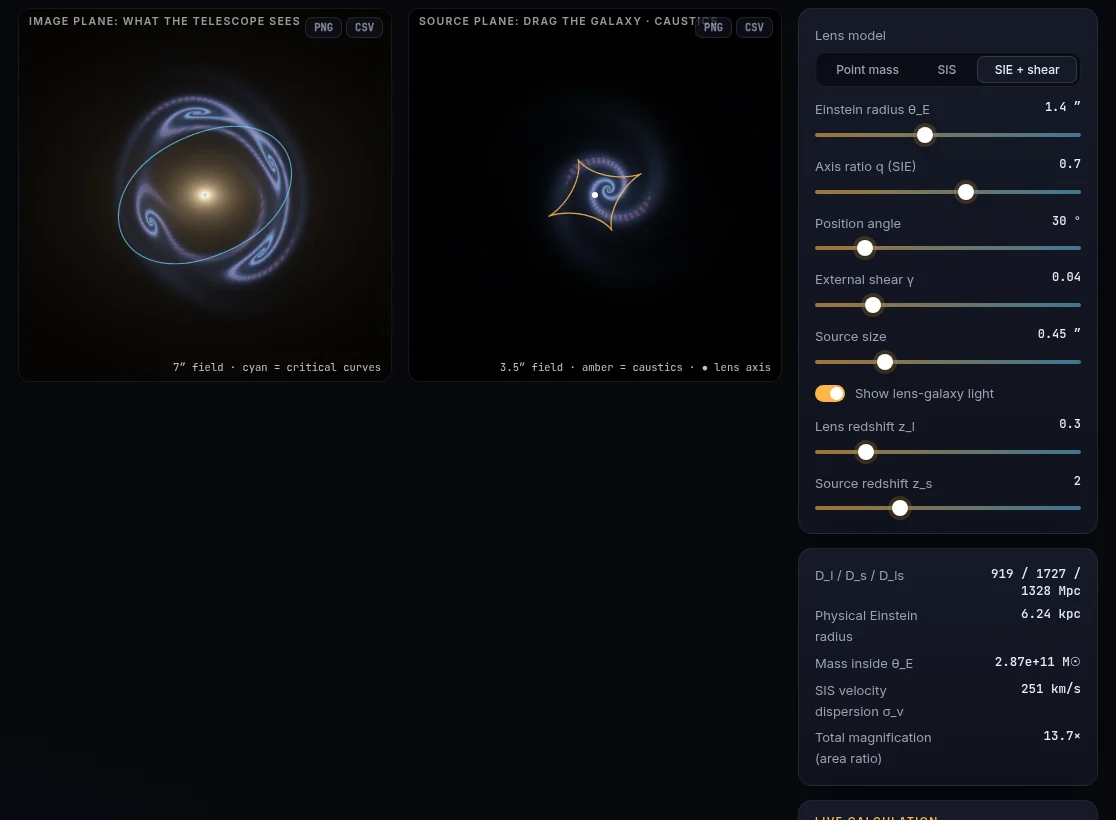
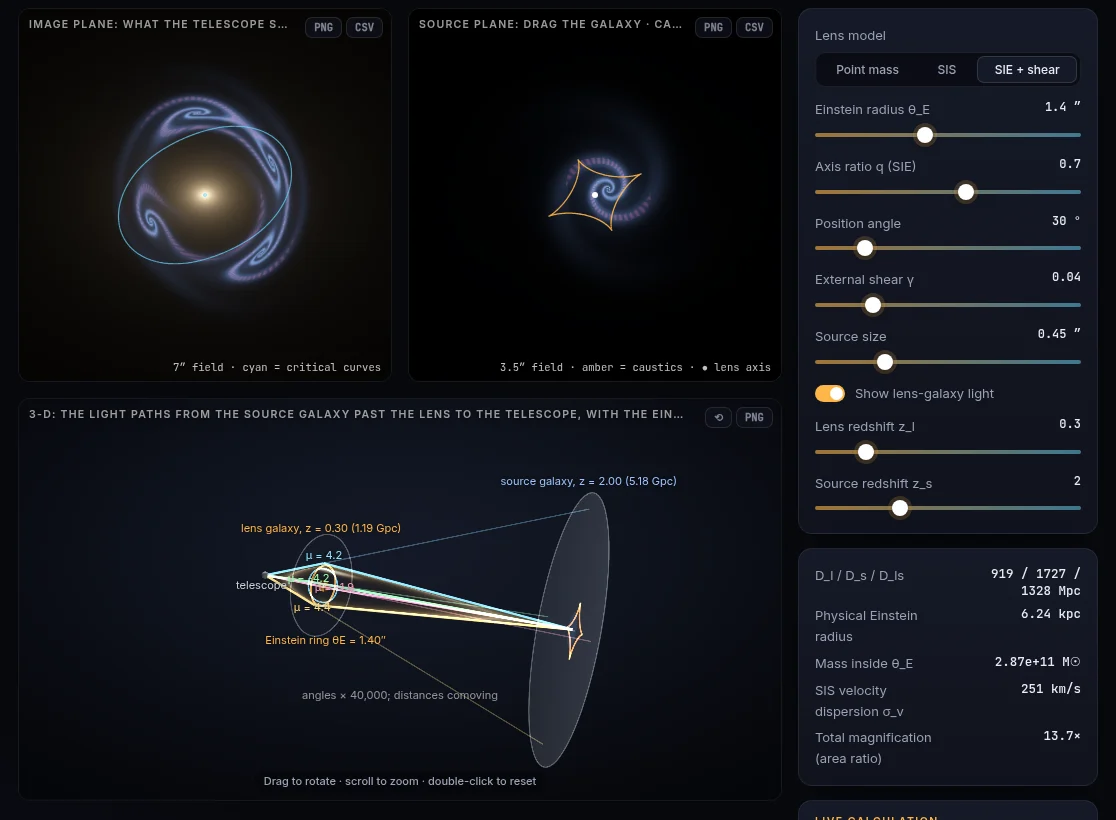
feat(3d): gravitational lensing light paths at comoving distances, with the Einstein ring as a cone (#140)
The lensing laboratory gets a 3-D view: telescope, lens plane (mass ellipse, critical curves), source plane (caustics, source galaxy), the light path of every image with its magnification, and the Einstein ring as a double cone. Planes sit at comoving distances (straight rays, additive in a flat universe); angles are exaggerated x 40 000. images() solves the lens equation (grid search + Newton) in the worker. Tests: SIS and point-mass images against closed forms, the Einstein cross, comoving additivity, and the drawn bend equals the deflection.

diff --git a/js/lib/lensing3d.js b/js/lib/lensing3d.js
@@ -1,0 +1,86 @@
+// 3-D scene for the gravitational-lensing laboratory (shown by js/lib/gl3d.js): the telescope, the
+// lens plane with the lens galaxy and its critical curves, the source plane with the caustics and
+// the background galaxy, the light paths of every image and the Einstein ring as a double cone.
+// Along the line of sight the planes sit at their comoving distances (Gpc): in a flat universe
+// light travels on straight lines in comoving coordinates and comoving distances add up, so the
+// drawing is exact away from the thin lens. Across it, angles are exaggerated by ANGLE_SCALE
+// (arcseconds over gigaparsecs would be invisible). Pure: no DOM.
+import { angularDiameterDistance as DA } from './optics.js';
+import { FOV, SFOV } from './lensing.js';
+import { sphere, normalsFrom } from './mesh3d.js';
+
+export const ANGLE_SCALE = 4e4;
+const ARC = Math.PI / 648000;
+const GOLD = [1, 0.71, 0.28], CYAN = [0.42, 0.84, 1], AMBER = [1, 0.62, 0.28], SRC = [0.55, 0.7, 1];
+const RAYS = [[1, 0.85, 0.45], [0.55, 0.9, 1], [0.6, 1, 0.7], [1, 0.6, 0.75], [0.8, 0.7, 1]];
+
+// Comoving distance (Gpc) to redshift z in flat ΛCDM: (1 + z) D_A.
+export const comoving = (z) => ((1 + z) * DA(0, z)) / 1000;
+
+// Sky angle (arcsec, x right as on the image panel) at comoving distance χ → scene point. The
+// scene looks along +z, so sky x maps to −X for a reader standing at the telescope.
+export const toScene = (x, y, chi) => [-x * ARC * ANGLE_SCALE * chi, y * ARC * ANGLE_SCALE * chi, chi];
+
+function disc(c, r, n = 64) {
+  const P = [c];
+  for (let k = 0; k < n; k++) { const a = (k / n) * 2 * Math.PI; P.push([c[0] + r * Math.cos(a), c[1] + r * Math.sin(a), c[2]]); }
+  const idx = [];
+  for (let k = 1; k <= n; k++) idx.push(0, k === n ? 1 : k + 1, k);
+  const positions = new Float32Array(P.flat()), indices = new Uint32Array(idx);
+  return { positions, normals: new Float32Array(P.flatMap(() => [0, 0, -1])), indices };
+}
+// A cone from apex a to the circle `ring` (points), as triangles.
+function cone(a, ring) {
+  const positions = new Float32Array([a, ...ring].flat()), idx = [];
+  for (let k = 1; k <= ring.length; k++) idx.push(0, k, k === ring.length ? 1 : k + 1);
+  const indices = new Uint32Array(idx);
+  return { positions, normals: normalsFrom(positions, indices), indices };
+}
+const circle = (r, chi, n = 96) => Array.from({ length: n }, (_, k) => [r * Math.cos((k / n) * 2 * Math.PI), r * Math.sin((k / n) * 2 * Math.PI), chi]);
+
+// m = { P (lens model, arcsec), zl, zs, src: [x, y] (arcsec), R (source radius, arcsec),
+//       images: [{ x, y, mu }], crit, caus: [[[x, y], [x, y]], …] (arcsec) }
+export function lensingScene({ P, zl, zs, src, R, images = [], crit = [], caus = [] }) {
+  const meshes = [], lines = [], labels = [];
+  const cl = comoving(zl), cs = comoving(Math.max(zs, zl + 0.01)), g = (x) => x.toFixed(2) + ' Gpc';
+  const k = ARC * ANGLE_SCALE;
+  // the telescope and the line of sight
+  meshes.push({ mesh: sphere(cs * 0.012, [0, 0, 0], 16, 8), color: [0.85, 0.87, 0.92] });
+  labels.push({ p: [0, -cs * 0.04, -cs * 0.02], text: 'telescope', color: '#c9cfdc' });
+  lines.push({ points: [[0, 0, 0], [0, 0, cs]], color: [1, 1, 1, 0.18], width: 1, glow: false });
+  // lens plane: the field of the image panel, the lens galaxy (its mass ellipse) and the critical curves
+  const rl = k * cl * FOV / 2;
+  meshes.push({ mesh: disc([0, 0, cl], rl), color: [0.3, 0.34, 0.45], opacity: 0.12, glass: true });
+  lines.push({ points: [...circle(rl, cl), circle(rl, cl)[0]], color: [1, 1, 1, 0.25], width: 1, glow: false });
+  const gal = sphere(1, [0, 0, 0], 32, 16), q = P.model === 'sie' ? P.q : 1, a0 = 0.55 * k * cl, c = Math.cos(P.pa || 0), s = Math.sin(P.pa || 0);
+  for (let i = 0; i < gal.positions.length; i += 3) {
+    const u = gal.positions[i] * a0, v = gal.positions[i + 1] * a0 * q, x = c * u - s * v, y = s * u + c * v;
+    gal.positions[i] = -x; gal.positions[i + 1] = y; gal.positions[i + 2] = cl + gal.positions[i + 2] * a0 * 0.6;
+  }
+  meshes.push({ mesh: gal, color: GOLD, opacity: 0.85 });
+  labels.push({ p: [0, rl * 1.12, cl], text: `lens galaxy, z = ${zl.toFixed(2)} (${g(cl)})`, color: '#ffb547' });
+  for (const [a, b] of crit) lines.push({ points: [toScene(...a, cl), toScene(...b, cl)], color: [...CYAN, 0.8], width: 1.2, glow: false });
+  // source plane: the source panel's field, the caustics and the background galaxy
+  const rs = k * cs * SFOV / 2;
+  meshes.push({ mesh: disc([0, 0, cs], rs), color: [0.3, 0.34, 0.45], opacity: 0.12, glass: true });
+  lines.push({ points: [...circle(rs, cs), circle(rs, cs)[0]], color: [1, 1, 1, 0.25], width: 1, glow: false });
+  for (const [a, b] of caus) if (Math.hypot(a[0] - b[0], a[1] - b[1]) <= 0.3) lines.push({ points: [toScene(...a, cs), toScene(...b, cs)], color: [...AMBER, 0.85], width: 1.2, glow: false });
+  meshes.push({ mesh: disc(toScene(src[0], src[1], cs * 0.999), k * cs * R * 0.5), color: SRC, opacity: 0.85 });
+  labels.push({ p: [0, rs * 1.08, cs], text: `source galaxy, z = ${zs.toFixed(2)} (${g(cs)})`, color: '#9cc3ff' });
+  // the Einstein ring: the cone of directions θ_E from the telescope, closing on the axis behind the lens
+  const ring = circle(k * cl * P.b, cl, 72);
+  meshes.push({ mesh: cone([0, 0, 0], ring), color: GOLD, opacity: 0.08, glass: true });
+  meshes.push({ mesh: cone([0, 0, cs], ring), color: GOLD, opacity: 0.06, glass: true });
+  lines.push({ points: [...ring, ring[0]], color: [...GOLD, 0.8], width: 1.4 });
+  labels.push({ p: [0, -rl * 1.15, cl], text: `Einstein ring θE = ${P.b.toFixed(2)}″`, color: '#ffb547' });
+  // every image: the light path telescope → lens plane → source, and where the image appears to be
+  images.slice(0, RAYS.length).forEach((im, i) => {
+    const L = toScene(im.x, im.y, cl), S = toScene(src[0], src[1], cs), col = RAYS[i];
+    lines.push({ points: [[0, 0, 0], L, S], color: [...col, 0.95], width: 1 + Math.min(2, Math.log10(1 + Math.abs(im.mu))) });
+    lines.push({ points: [L, toScene(im.x, im.y, cs)], color: [...col, 0.3], width: 1, glow: false });
+    labels.push({ p: [L[0] * 1.25, L[1] * 1.25 + rl * 0.04, cl], text: `μ = ${im.mu.toFixed(1)}`, color: `rgb(${col.map((v) => Math.round(v * 255)).join(',')})` });
+  });
+  labels.push({ p: [0, -rs * 0.9, cs * 0.5], text: `angles × ${ANGLE_SCALE.toLocaleString('en')}; distances comoving`, color: 'rgba(255,255,255,0.55)' });
+  return { meshes, lines, labels, frame: { centre: [0, 0, cs * 0.5], size: Math.hypot(cs, 2 * rs) * 1.2 } };
+}
+

diff --git a/js/modules/lensing.js b/js/modules/lensing.js
@@ -3,6 +3,8 @@ import { header, lab, idea, rule, theory, references, liveCalc } from '../lib/pa
 import { angularDiameterDistance as DA, C_KMS as C } from '../lib/optics.js';
 import { FOV, SFOV } from '../lib/lensing.js';
 import { runOn, parallel, rowBands, poolSize } from '../lib/compute.js';
+import { view3d } from '../lib/gl3d.js';
+import { lensingScene, comoving } from '../lib/lensing3d.js';
 
 const ARC = Math.PI / 180 / 3600;
 
@@ -30,7 +32,8 @@ export default function mount(root, meta) {
   const calc = liveCalc();
   const img = stage({ aspect: 1, label: 'Image plane: what the telescope sees', draw: drawImage });
   const src = stage({ aspect: 1, label: 'Source plane: drag the galaxy · caustics', draw: drawSource });
-  root.append(lab([h('div.grid-2', {}, img.el, src.el)], [h('div.card', {}, ctl.el), h('div.card', {}, ro), calc.el]));
+  const v3 = view3d({ label: '3-D: the light paths from the source galaxy past the lens to the telescope, with the Einstein ring as a cone', aspect: 1.9, minH: 280, yaw: -1.05, pitch: 0.32 });
+  root.append(lab([h('div.grid-2', {}, img.el, src.el), v3.el], [h('div.card', {}, ctl.el), h('div.card', {}, ro), calc.el]));
 
   let srcPos = [0.12, 0.06];
   let dragging = false;
@@ -65,14 +68,15 @@ export default function mount(root, meta) {
     for (const q of parts) { rgba.set(q, off); off += q.length; }
     imgCanvas = toCanvas(rgba, N); srcCanvas = toCanvas(extra.img, N);
     if (extra.crit) { L.crit = extra.crit; L.caus = extra.caus; curvesFor = key; }
-    L.mu = extra.mu;
+    L.mu = extra.mu; L.images = extra.images;
+    show3d();
     img.redraw(); src.redraw();
     const dd = ro.querySelectorAll('dd'); if (dd.length) dd[dd.length - 1].textContent = isFinite(L.mu) ? L.mu.toFixed(1) + '×' : '—';
   }
 
   function update() {
     const st = ctl.state, P = params();
-    L = { P, crit: L ? L.crit : [], caus: L ? L.caus : [] };
+    L = { P, crit: L ? L.crit : [], caus: L ? L.caus : [], images: L ? L.images : [] };
     const Dl = DA(0, st.zl), Ds = DA(0, Math.max(st.zs, st.zl + 0.01)), Dls = DA(st.zl, Math.max(st.zs, st.zl + 0.01));
     const Mpc = 3.0857e22, G = 6.674e-11, c = 2.998e8, Msun = 1.989e30;
     const tE = st.b * ARC;
@@ -94,6 +98,14 @@ export default function mount(root, meta) {
     \mu &= \frac{1}{\det A},\quad A_{ij} = \delta_{ij} - \partial_j\alpha_i
     \end{aligned}`);
     render().catch(console.error);
+  }
+
+  // 3-D: the camera stays where the reader put it, unless the source distance changes more than 1.5×
+  let depth3d = 0;
+  function show3d() {
+    const st = ctl.state, D = comoving(Math.max(st.zs, st.zl + 0.01)), keep = depth3d > 0 && D / depth3d < 1.5 && depth3d / D < 1.5;
+    v3.setScene(lensingScene({ P: L.P, zl: st.zl, zs: st.zs, src: srcPos, R: st.R, images: L.images, crit: L.crit, caus: L.caus }), keep);
+    if (!keep) depth3d = D;
   }
 
   function drawImage(ctx, w, hh) {
@@ -144,6 +156,8 @@ export default function mount(root, meta) {
 </div><div>
 <h3>Magnification, critical curves and caustics</h3>
 <p>The Jacobian \(A_{ij} = \partial\beta_i/\partial\theta_j = \delta_{ij} - \partial_i\partial_j\psi\) is a lensing "aberration matrix". Its isotropic part is the convergence \(\kappa\) (focusing), and its trace-free part is the shear \(\gamma\) (astigmatism). The magnification is \(\mu = 1/\det A = 1/[(1-\kappa)^2 - \gamma^2]\). Where \(\det A = 0\) lie the <strong>critical curves</strong> (cyan), and their images in the source plane are the <strong>caustics</strong> (amber). Every time the source crosses a caustic, a pair of images is created or destroyed. Inside the diamond-shaped tangential caustic of an elliptical lens, the source has five images, one of them demagnified at the centre. This is the "Einstein cross" configuration.</p>
+<h3>The 3-D view</h3>
+<p>The view finds every image \(\boldsymbol\theta_i\) of the source centre by solving the lens equation (a grid search for near-solutions, then Newton's method with the Jacobian \(A\)) and draws each light path as two straight legs that meet in the lens plane. Along the line of sight the planes sit at their <em>comoving</em> distances \(\chi = (1+z)D_A\). In a flat universe space is Euclidean in comoving coordinates, so light travels in straight lines there and \(\chi_s = \chi_l + \chi_{ls}\), which angular-diameter distances do not satisfy (beyond \(z \approx 1.6\) a farther galaxy even has a smaller \(D_A\)). Since \(D_{ls}/D_s = \chi_{ls}/\chi_s\), the bend of each drawn path is exactly the deflection \(\hat\alpha\). Across the line of sight all angles are multiplied by 40 000, or the arcsecond bends would be invisible over gigaparsecs. The gold double cone is the Einstein ring: the directions \(\theta_E\) from the telescope, closing on the axis at the source plane.</p>
 <h3>Connection to ordinary optics</h3>
 <p>Gravitational lenses are extremely aberrated: a point mass has a single focal line instead of a focal point, and its "spherical aberration" is infinite. Caustics here are the same mathematical objects as the bright lines at the bottom of a swimming pool, or the caustic in the <a href="#/raytracer">ray tracer's</a> focus view. Catastrophe theory classifies them into folds and cusps.</p>
 <h3>In practice</h3>
@@ -156,5 +170,5 @@ export default function mount(root, meta) {
     'R. Narayan &amp; M. Bartelmann, "Lectures on gravitational lensing", arXiv:astro-ph/9606001 (1996).',
     'T. Treu, "Strong lensing by galaxies", ARA&amp;A 48, 87 (2010).',
   ]));
-  return () => [img, src].forEach((s) => s.destroy());
+  return () => [img, src, v3].forEach((s) => s.destroy());
 }

diff --git a/js/lib/lensing.js b/js/lib/lensing.js
@@ -105,3 +105,38 @@ export function sourceAndMagnification({ P, src, R, N }) {
   }
   return { img, mu: srcArea ? imgArea / srcArea : NaN };
 }
+
+// Every image θ (arcsec) of a point source at β = src, inside the field: local minima of
+// |θ − α(θ) − β| on a grid, refined by Newton's method with the numerical Jacobian A. Returns
+// [{ x, y, mu }] (mu = 1/det A, negative for images of odd parity), brightest first.
+export function images(P, src, G = 140) {
+  const h = FOV / G, res = new Float64Array((G + 1) * (G + 1));
+  const at = (i, j) => [-FOV / 2 + i * h, -FOV / 2 + j * h];
+  const miss = (x, y) => { const [ax, ay] = deflect(P, x, y); return [x - ax - src[0], y - ay - src[1]]; };
+  for (let j = 0; j <= G; j++) for (let i = 0; i <= G; i++) res[j * (G + 1) + i] = Math.hypot(...miss(...at(i, j)));
+  const jac = (x, y) => {
+    const d = 1e-5, [a1, b1] = deflect(P, x + d, y), [a0, b0] = deflect(P, x - d, y), [a2, b2] = deflect(P, x, y + d), [a3, b3] = deflect(P, x, y - d);
+    return [1 - (a1 - a0) / (2 * d), -(a2 - a3) / (2 * d), -(b1 - b0) / (2 * d), 1 - (b2 - b3) / (2 * d)];
+  };
+  const out = [];
+  for (let j = 1; j < G; j++) for (let i = 1; i < G; i++) {
+    const r = res[j * (G + 1) + i];
+    if (r > 4 * h) continue;
+    let local = true;
+    for (let dj = -1; dj <= 1 && local; dj++) for (let di = -1; di <= 1; di++) if ((di || dj) && res[(j + dj) * (G + 1) + i + di] < r) { local = false; break; }
+    if (!local) continue;
+    let [x, y] = at(i, j);
+    for (let k = 0; k < 40; k++) {
+      const [fx, fy] = miss(x, y), [a, b, c, d] = jac(x, y), det = a * d - b * c;
+      if (!isFinite(det) || Math.abs(det) < 1e-12) break;
+      const sx = (d * fx - b * fy) / det, sy = (a * fy - c * fx) / det, L = Math.hypot(sx, sy), damp = L > 0.2 ? 0.2 / L : 1;
+      x -= sx * damp; y -= sy * damp;
+      if (L < 1e-11) break;
+    }
+    if (Math.hypot(...miss(x, y)) > 1e-7 || Math.hypot(x, y) < 1e-3 || Math.abs(x) > FOV / 2 || Math.abs(y) > FOV / 2) continue;
+    if (out.some((p) => Math.hypot(p.x - x, p.y - y) < 1e-4)) continue;
+    const [a, b, c, d] = jac(x, y);
+    out.push({ x, y, mu: 1 / (a * d - b * c) });
+  }
+  return out.sort((p, q) => Math.abs(q.mu) - Math.abs(p.mu));
+}

diff --git a/js/lib/tasks.js b/js/lib/tasks.js
@@ -14,7 +14,7 @@ import { tiltScene, tiltBlend, shiftRows, TILT } from './scenes.js';
 import { diskBlurRGBA } from './blur.js';
 import { groundRows } from './dofphoto.js';
 import { projectionRows } from './projection.js';
-import { lensRows, sourceAndMagnification, criticalCurves, deflect } from './lensing.js';
+import { lensRows, sourceAndMagnification, criticalCurves, deflect, images } from './lensing.js';
 import { perspectiveRows } from './perspective.js';
 import { seeingSession } from './seeing.js';
 import { renderRuler } from './macro.js';
@@ -585,6 +585,7 @@ function projectionTask(p) { const r = projectionRows(p.p, p.y0, p.y1); return {
 function lensRowsTask(p) { const r = lensRows(p.p, p.y0, p.y1); return { result: r, transfer: [r.buffer] }; }
 function lensSide(p) {
   const r = sourceAndMagnification(p);
+  r.images = images(p.P, p.src);
   if (p.curves) {
     r.crit = criticalCurves(p.P);
     r.caus = r.crit.map(([a, b]) => [a, b].map(([x, y]) => { const [ax, ay] = deflect(p.P, x, y); return [x - ax, y - ay]; }));

diff --git a/js/locales/fr.js b/js/locales/fr.js
@@ -1249,5 +1249,6 @@ export default {
   "Test colours the display cannot show": "Couleurs test que l’écran ne peut pas afficher",
   "3-D: every surface colour possible under this light, in CIE xyY, with a display gamut": "3-D : toutes les couleurs de surface possibles sous cette lumière, en CIE xyY, avec un gamut d’écran",
   "3-D, true scale: what the camera sees, the plane of focus and the sharp zone": "3-D, à l’échelle : ce que voit l’appareil, le plan de netteté et la zone nette",
+  "3-D: the light paths from the source galaxy past the lens to the telescope, with the Einstein ring as a cone": "3-D : les trajets de la lumière de la galaxie source, autour de la lentille, jusqu’au télescope, avec l’anneau d’Einstein en cône",
   "3-D: the sphere of directions with Tissot circles, and where the projection puts them on the image plane": "3-D : la sphère des directions avec les cercles de Tissot, et où la projection les place sur le plan image",
 };

diff --git a/js/locales/es.js b/js/locales/es.js
@@ -1249,5 +1249,6 @@ export default {
   "Test colours the display cannot show": "Colores de prueba que la pantalla no puede mostrar",
   "3-D: every surface colour possible under this light, in CIE xyY, with a display gamut": "3-D: todos los colores de superficie posibles con esta luz, en CIE xyY, con una gama de pantalla",
   "3-D, true scale: what the camera sees, the plane of focus and the sharp zone": "3-D, a escala: lo que ve la cámara, el plano de enfoque y la zona nítida",
+  "3-D: the light paths from the source galaxy past the lens to the telescope, with the Einstein ring as a cone": "3-D: las trayectorias de la luz desde la galaxia fuente, junto a la lente, hasta el telescopio, con el anillo de Einstein como cono",
   "3-D: the sphere of directions with Tissot circles, and where the projection puts them on the image plane": "3-D: la esfera de direcciones con los círculos de Tissot y dónde los coloca la proyección en el plano imagen",
 };

diff --git a/js/locales/de.js b/js/locales/de.js
@@ -1249,5 +1249,6 @@ export default {
   "Test colours the display cannot show": "Testfarben, die das Display nicht zeigen kann",
   "3-D: every surface colour possible under this light, in CIE xyY, with a display gamut": "3-D: jede unter diesem Licht mögliche Oberflächenfarbe in CIE xyY, mit einem Displayfarbraum",
   "3-D, true scale: what the camera sees, the plane of focus and the sharp zone": "3-D, maßstäblich: was die Kamera sieht, die Schärfeebene und der scharfe Bereich",
+  "3-D: the light paths from the source galaxy past the lens to the telescope, with the Einstein ring as a cone": "3-D: die Lichtwege von der Quellgalaxie an der Linse vorbei zum Teleskop, mit dem Einsteinring als Kegel",
   "3-D: the sphere of directions with Tissot circles, and where the projection puts them on the image plane": "3-D: die Richtungskugel mit Tissot-Kreisen und wohin die Projektion sie auf der Bildebene legt",
 };

diff --git a/README.md b/README.md
@@ -507,7 +507,7 @@ Resolution and Nyquist sampling for eight real cameras, Planck thermal emission,
 **Gravitational lensing** · `#/lensing`<br>
 <img src="docs/screenshots/lensing.webp" alt="Einstein ring arcs from an SIE lens, with critical curves and caustics">
 
-Inverse ray-shooting through point-mass, SIS and **SIE + shear** lenses. Critical curves are found by marching squares and mapped to caustics. Flat ΛCDM distances give the Einstein radius, enclosed mass and velocity dispersion. Drag the source galaxy across the caustics.
+Inverse ray-shooting through point-mass, SIS and **SIE + shear** lenses. Critical curves are found by marching squares and mapped to caustics. Flat ΛCDM distances give the Einstein radius, enclosed mass and velocity dispersion. Drag the source galaxy across the caustics. A **3-D view** shows the light path of every image, solved from the lens equation, from the source past the lens galaxy to the telescope, with the planes at their comoving distances and the Einstein ring as a double cone.
 
 </td>
 <td valign="top">
@@ -852,6 +852,7 @@ Optica_Viva/
 │   │   ├── tilt3d.js          3-D Scheimpflug geometry at true scale, and the plane of focus over the toy town
 │   │   ├── dof3d.js           3-D depth of field: the camera's frustum, plane of focus, sharp zone and cards at true scale
 │   │   ├── colour3d.js        3-D colour solid: optimal colours under a source in xyY, display gamuts, test colours
+│   │   ├── lensing3d.js       3-D lensing: comoving planes, light paths of every image, critical curves, caustics, ring cone
 │   │   ├── projection3d.js    3-D sphere of directions with Tissot circles, the image plane and the sensor's field
 │   │   ├── i18n.js            Interface translation: t(), N_(), language choice and loading
 │   │   ├── transit.js         Transit light curves with limb darkening, orbits, photometric noise
@@ -949,6 +950,8 @@ The numerical core was checked against published or analytically known values. E
 | Real-ray flare ghosts, Double-Gauss at f/18, 0.57° (4 paths) | position within 3 %, size within 2 %, flux within 3 % | y–nu ghost matrices: (B − AD/C)θ, \|A/C\| r<sub>stop</sub>, R<sub>i</sub>R<sub>j</sub> π(r<sub>stop</sub>/C)² |
 | Brewster angle, water and N-BK7 | 53.12°, 56.60° | arctan n = 53.12°, 56.60° |
 | Three ideal polarisers at 0°, 45°, 90° (unpolarised input) | 1/8 | ½ · cos²45° · cos²45° = 0.125 |
+| Lensed images, SIS and point mass (θE = 1.4″, β = 0.5″) | within 10⁻⁶″ | β ± θE; (β ± √(β² + 4θE²))/2 |
+| Comoving distances, flat ΛCDM | (1 + z<sub>s</sub>) D<sub>ls</sub> = χ<sub>s</sub> − χ<sub>l</sub> to 10⁻⁵ Gpc | flat space: comoving distances add |
 | Tissot area ratio, equisolid fisheye (5° circles up to 140° off axis) | 1 within 0.2 % | equal-area projection: hk = f² |
 | Tissot circle, stereographic, 40° latitude | a circle to 10⁻⁹ | conformal: circles map to circles |
 | Tissot area ratio, rectilinear at 40° | 2.255 | sec³θ = 2.225 (5° circle: +1.4 %) |

diff --git a/ROADMAP.md b/ROADMAP.md
@@ -75,7 +75,7 @@ flowchart LR
 | Laboratories | 59 pages, including 9 missions and the reference pages | see Planned milestones |
 | Catalogue entries | 228, each with details and a worked example | link every new lab |
 | Lens prescriptions | 15: camera lenses from the Petzval to the Biogon, Hubble, a Cassegrain and a three-mirror anastigmat; aspheres, mirrors, model glasses and file import | (none planned) |
-| Automated tests | 310 tests (physics, blur, lens I/O, ghosts, bokeh, polarisation, macro, colour, AO) + link check + browser smoke test in CI | more coverage per new lab |
+| Automated tests | 313 tests (physics, blur, lens I/O, ghosts, bokeh, polarisation, macro, colour, AO) + link check + browser smoke test in CI | more coverage per new lab |
 | Deployment | GitHub Pages, deployed from `main` by CI | (none) |
 
 ---
@@ -520,7 +520,7 @@ Candidates, in order of how much the third dimension adds:
 - [x] **P1 · S** **Wavefronts and PSFs as surfaces** (#129): the Zernike wavefront over a round pupil next to its PSF's log relief, and the PSF laboratory's star image as a relief in its own colours (JWST's six spikes in near-infrared colour). *The seeing phase screen remains.*
 - [x] **P2 · M** **Depth of field**: at true scale, the camera's view frustum (the photograph's sensor, height and shifted framing), the plane of focus, the sharp zone as a glass slab and the cards coloured by their blur.
 - [x] **P2 · M** **Projections**: the sphere of directions (radius f) with the Tissot circles, the image plane tangent to it at the axis, each circle's image where the projection puts it, and the sensor's field outlined on the sphere.
-- [ ] **P2 · M** **Gravitational lensing**: rays bending past the lens galaxy between source and observer, with the Einstein ring as a cone.
+- [x] **P2 · M** **Gravitational lensing**: the light path of every image (solved from the lens equation) from the source past the lens galaxy to the telescope, the planes at their comoving distances, critical curves and caustics on them, and the Einstein ring as a double cone; angles exaggerated × 40 000.
 - [ ] **P2 · M** **Interferometry**: the rotating Earth with the array's baselines sweeping the u-v plane.
 - [ ] **P2 · M** **Orbits**: Earth observation (orbit, swath and push-broom footprint) and exoplanet transits (orbit, line of sight, impact parameter).
 - [x] **P2 · S** **Colour science**: the colour solid in CIE xyY (the optimal colours under the chosen light, adapted to D65), with the sRGB, Display P3 or Rec. 2020 gamut and the 14 test colours. *A perceptual (CIELAB) version and gamut volumes remain.*

diff --git a/CHANGELOG.md b/CHANGELOG.md
@@ -7,6 +7,9 @@ The format follows [Keep a Changelog](https://keepachangelog.com/en/1.1.0/), and
 ## [Unreleased]
 
 ### Added
+- **3-D gravitational lensing** (`js/lib/lensing3d.js`): the lensing laboratory shows the telescope, the lens plane with the lens galaxy's mass ellipse and the critical curves, the source plane with the caustics and the background galaxy, the light path of every image with its magnification, and the Einstein ring as a double cone. The planes sit at their comoving distances, where light travels in straight lines in a flat universe; angles are exaggerated × 40 000. `images()` in `js/lib/lensing.js` solves the lens equation for every image of a point source (grid search, then Newton), in the worker with the source panel. Tests check SIS and point-mass images against the closed forms, the four-image cross of an elliptical lens, that comoving distances add up, and that each drawn path bends by the deflection.
+
+### Added
 - **3-D projections** (`js/lib/projection3d.js`): the projection laboratory shows the sphere of directions, radius f, with the Tissot circles on it, and the image plane tangent to it at the optical axis, where each circle lands as the chosen projection maps it. Lines join the circles on the horizon and the central meridian to their images (straight rays through the centre only for the rectilinear lens); the sensor's field is outlined on the sphere, and circles outside it are grey. The Tissot circles are now computed once in `js/lib/projection.js` (`tissotCircles`, `tissotColour`, `toCamera`) for the 2-D overlay and the 3-D view.
 
 ### Changed
